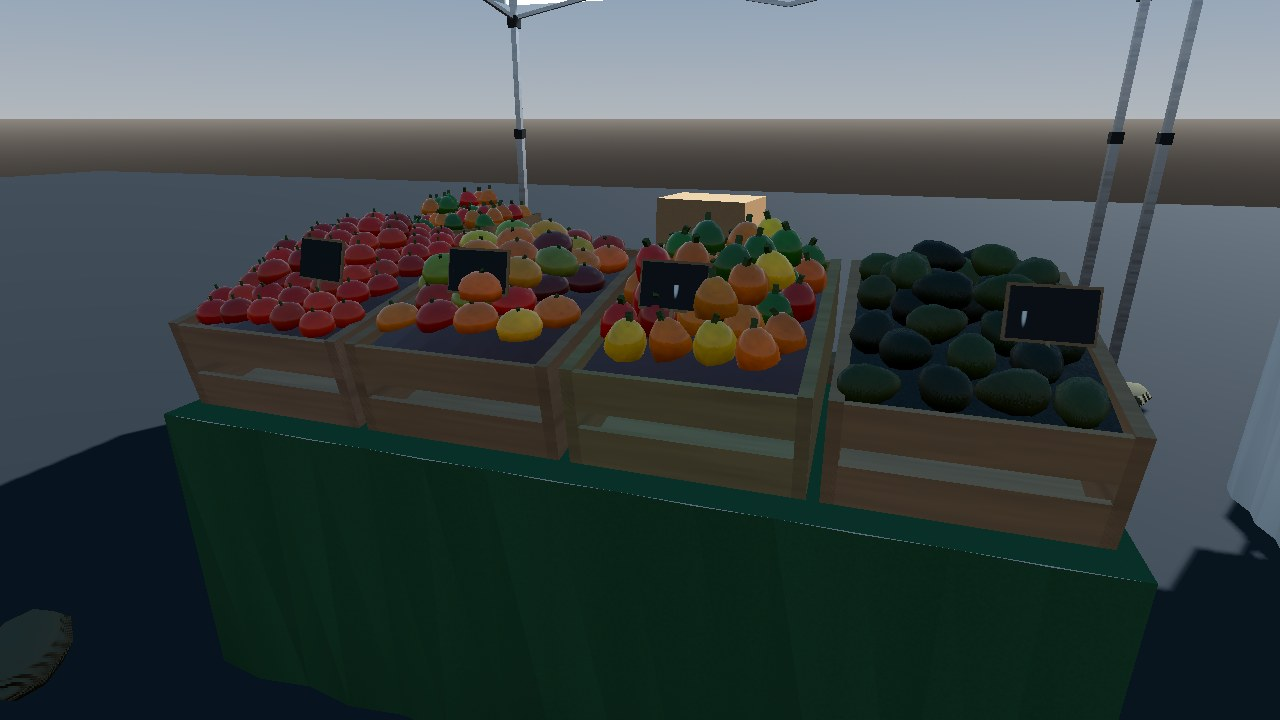
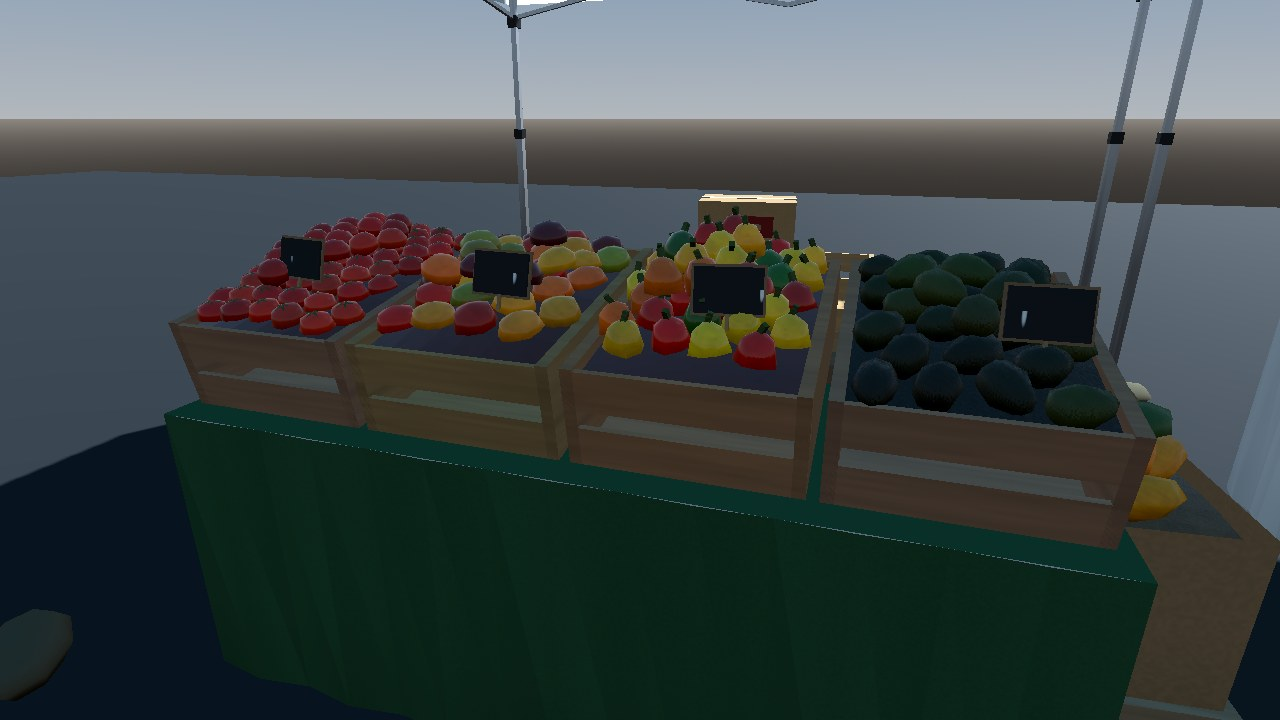
Stills: farmers_market refcam, after

diff --git a/README.md b/README.md
@@ -2,4 +2,7 @@
 
 - 01_before_farmers_market.jpg: the new refcam farmers_market on main (Palm St, Saturday 10:00 clear).
 - 02_before_kit_produce_closeup.jpg: tools/farmers_market/kit_shot.gd, a produce table on main.
-- 03_after_kit_produce_closeup.jpg: the same after packing, finer fruit, skin relief and cloth folds.
+- 03_after_kit_produce_closeup.jpg: the same table after: fruit packed in hex layers, finer, tomato calyxes, pebbly avocado skins, folds in the cloth.
+- 04_after_farmers_market.jpg: the refcam after (merged head): packed produce, clear-glass festoon bulbs, a busier aisle.
+- 05_after_kit_cloth_folds_cartons.jpg: hanging cloth folds and printed, taped cartons.
+- 06_after_kit_sunlit_citrus.jpg: a citrus table in the sun.
